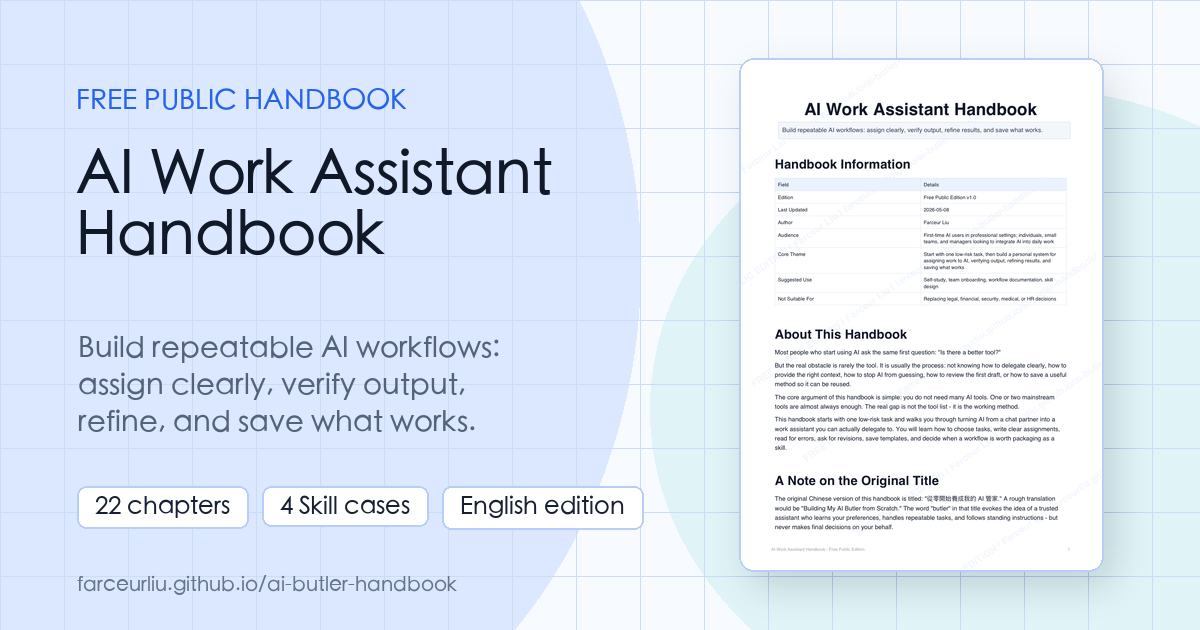
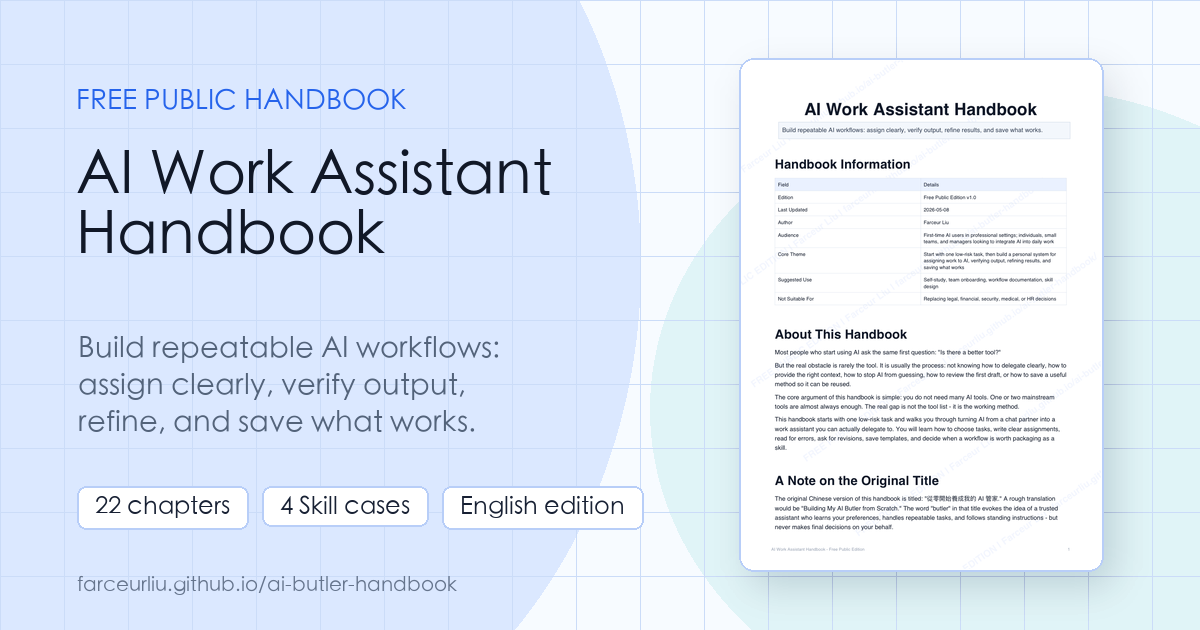
調整中文分享縮圖字體

diff --git a/index.html b/index.html
@@ -12,17 +12,17 @@
   <meta property="og:url" content="https://farceurliu.github.io/ai-butler-handbook/">
   <meta property="og:site_name" content="從零開始養成我的 AI 管家">
   <meta property="og:locale" content="zh_TW">
-  <meta property="og:image" content="https://farceurliu.github.io/ai-butler-handbook/assets/social-preview-zh.png?v=20260508-bilingual-previews">
-  <meta property="og:image:secure_url" content="https://farceurliu.github.io/ai-butler-handbook/assets/social-preview-zh.png?v=20260508-bilingual-previews">
+  <meta property="og:image" content="https://farceurliu.github.io/ai-butler-handbook/assets/social-preview-zh.png?v=20260508-preview-font">
+  <meta property="og:image:secure_url" content="https://farceurliu.github.io/ai-butler-handbook/assets/social-preview-zh.png?v=20260508-preview-font">
   <meta property="og:image:width" content="1200">
   <meta property="og:image:height" content="630">
   <meta property="og:image:alt" content="從零開始養成我的 AI 管家免費公開手冊預覽圖">
   <meta name="twitter:card" content="summary_large_image">
   <meta name="twitter:title" content="從零開始養成我的 AI 管家｜免費公開版">
   <meta name="twitter:description" content="AI 管家公開教學書，教你把 AI 從聊天工具養成可交辦、可驗收、可累積的工作助理。">
-  <meta name="twitter:image" content="https://farceurliu.github.io/ai-butler-handbook/assets/social-preview-zh.png?v=20260508-bilingual-previews">
+  <meta name="twitter:image" content="https://farceurliu.github.io/ai-butler-handbook/assets/social-preview-zh.png?v=20260508-preview-font">
   <link rel="icon" href="assets/favicon.svg" type="image/svg+xml">
-  <link rel="stylesheet" href="assets/styles.css?v=20260508-bilingual-previews">
+  <link rel="stylesheet" href="assets/styles.css?v=20260508-preview-font">
   <script src="https://platform.linkedin.com/badges/js/profile.js" async defer type="text/javascript"></script>
   <script data-goatcounter="https://farceur-ai-butler.goatcounter.com/count" async src="https://gc.zgo.at/count.js"></script>
 </head>

diff --git a/english.html b/english.html
@@ -12,17 +12,17 @@
   <meta property="og:url" content="https://farceurliu.github.io/ai-butler-handbook/english.html">
   <meta property="og:site_name" content="AI Work Assistant Handbook">
   <meta property="og:locale" content="en_US">
-  <meta property="og:image" content="https://farceurliu.github.io/ai-butler-handbook/assets/social-preview-en.png?v=20260508-bilingual-previews">
-  <meta property="og:image:secure_url" content="https://farceurliu.github.io/ai-butler-handbook/assets/social-preview-en.png?v=20260508-bilingual-previews">
+  <meta property="og:image" content="https://farceurliu.github.io/ai-butler-handbook/assets/social-preview-en.png?v=20260508-preview-font">
+  <meta property="og:image:secure_url" content="https://farceurliu.github.io/ai-butler-handbook/assets/social-preview-en.png?v=20260508-preview-font">
   <meta property="og:image:width" content="1200">
   <meta property="og:image:height" content="630">
   <meta property="og:image:alt" content="Free public AI work assistant handbook preview image">
   <meta name="twitter:card" content="summary_large_image">
   <meta name="twitter:title" content="AI Work Assistant Handbook | English Overview">
   <meta name="twitter:description" content="English overview of a Traditional Chinese handbook about turning AI tools into assignable, verifiable, repeatable work processes.">
-  <meta name="twitter:image" content="https://farceurliu.github.io/ai-butler-handbook/assets/social-preview-en.png?v=20260508-bilingual-previews">
+  <meta name="twitter:image" content="https://farceurliu.github.io/ai-butler-handbook/assets/social-preview-en.png?v=20260508-preview-font">
   <link rel="icon" href="assets/favicon.svg" type="image/svg+xml">
-  <link rel="stylesheet" href="assets/styles.css?v=20260508-bilingual-previews">
+  <link rel="stylesheet" href="assets/styles.css?v=20260508-preview-font">
   <script data-goatcounter="https://farceur-ai-butler.goatcounter.com/count" async src="https://gc.zgo.at/count.js"></script>
 </head>
 <body>

diff --git a/linkedin.html b/linkedin.html
@@ -12,17 +12,17 @@
   <meta property="og:url" content="https://farceurliu.github.io/ai-butler-handbook/linkedin.html">
   <meta property="og:site_name" content="AI Work Assistant Handbook">
   <meta property="og:locale" content="en_US">
-  <meta property="og:image" content="https://farceurliu.github.io/ai-butler-handbook/assets/social-preview-en.png?v=20260508-bilingual-previews">
-  <meta property="og:image:secure_url" content="https://farceurliu.github.io/ai-butler-handbook/assets/social-preview-en.png?v=20260508-bilingual-previews">
+  <meta property="og:image" content="https://farceurliu.github.io/ai-butler-handbook/assets/social-preview-en.png?v=20260508-preview-font">
+  <meta property="og:image:secure_url" content="https://farceurliu.github.io/ai-butler-handbook/assets/social-preview-en.png?v=20260508-preview-font">
   <meta property="og:image:width" content="1200">
   <meta property="og:image:height" content="630">
   <meta property="og:image:alt" content="Free public AI work assistant handbook preview image">
   <meta name="twitter:card" content="summary_large_image">
   <meta name="twitter:title" content="AI Work Assistant Handbook | Farceur Liu">
   <meta name="twitter:description" content="A free public self-study handbook for building repeatable AI workflows and an AI work assistant.">
-  <meta name="twitter:image" content="https://farceurliu.github.io/ai-butler-handbook/assets/social-preview-en.png?v=20260508-bilingual-previews">
+  <meta name="twitter:image" content="https://farceurliu.github.io/ai-butler-handbook/assets/social-preview-en.png?v=20260508-preview-font">
   <link rel="icon" href="assets/favicon.svg" type="image/svg+xml">
-  <link rel="stylesheet" href="assets/styles.css?v=20260508-bilingual-previews">
+  <link rel="stylesheet" href="assets/styles.css?v=20260508-preview-font">
   <script data-goatcounter="https://farceur-ai-butler.goatcounter.com/count" async src="https://gc.zgo.at/count.js"></script>
 </head>
 <body>

diff --git a/read.html b/read.html
@@ -12,17 +12,17 @@
   <meta property="og:url" content="https://farceurliu.github.io/ai-butler-handbook/read.html">
   <meta property="og:site_name" content="從零開始養成我的 AI 管家">
   <meta property="og:locale" content="zh_TW">
-  <meta property="og:image" content="https://farceurliu.github.io/ai-butler-handbook/assets/social-preview-zh.png?v=20260508-bilingual-previews">
-  <meta property="og:image:secure_url" content="https://farceurliu.github.io/ai-butler-handbook/assets/social-preview-zh.png?v=20260508-bilingual-previews">
+  <meta property="og:image" content="https://farceurliu.github.io/ai-butler-handbook/assets/social-preview-zh.png?v=20260508-preview-font">
+  <meta property="og:image:secure_url" content="https://farceurliu.github.io/ai-butler-handbook/assets/social-preview-zh.png?v=20260508-preview-font">
   <meta property="og:image:width" content="1200">
   <meta property="og:image:height" content="630">
   <meta property="og:image:alt" content="從零開始養成我的 AI 管家免費公開手冊預覽圖">
   <meta name="twitter:card" content="summary_large_image">
   <meta name="twitter:title" content="線上閱讀｜從零開始養成我的 AI 管家">
   <meta name="twitter:description" content="從零開始養成我的 AI 管家免費公開版線上閱讀。">
-  <meta name="twitter:image" content="https://farceurliu.github.io/ai-butler-handbook/assets/social-preview-zh.png?v=20260508-bilingual-previews">
+  <meta name="twitter:image" content="https://farceurliu.github.io/ai-butler-handbook/assets/social-preview-zh.png?v=20260508-preview-font">
   <link rel="icon" href="assets/favicon.svg" type="image/svg+xml">
-  <link rel="stylesheet" href="assets/styles.css?v=20260508-bilingual-previews">
+  <link rel="stylesheet" href="assets/styles.css?v=20260508-preview-font">
   <script data-goatcounter="https://farceur-ai-butler.goatcounter.com/count" async src="https://gc.zgo.at/count.js"></script>
 </head>
 <body>

diff --git a/read-en.html b/read-en.html
@@ -12,17 +12,17 @@
   <meta property="og:url" content="https://farceurliu.github.io/ai-butler-handbook/read-en.html">
   <meta property="og:site_name" content="AI Work Assistant Handbook">
   <meta property="og:locale" content="en_US">
-  <meta property="og:image" content="https://farceurliu.github.io/ai-butler-handbook/assets/social-preview-en.png?v=20260508-bilingual-previews">
-  <meta property="og:image:secure_url" content="https://farceurliu.github.io/ai-butler-handbook/assets/social-preview-en.png?v=20260508-bilingual-previews">
+  <meta property="og:image" content="https://farceurliu.github.io/ai-butler-handbook/assets/social-preview-en.png?v=20260508-preview-font">
+  <meta property="og:image:secure_url" content="https://farceurliu.github.io/ai-butler-handbook/assets/social-preview-en.png?v=20260508-preview-font">
   <meta property="og:image:width" content="1200">
   <meta property="og:image:height" content="630">
   <meta property="og:image:alt" content="Free public AI work assistant handbook preview image">
   <meta name="twitter:card" content="summary_large_image">
   <meta name="twitter:title" content="Read Online | AI Work Assistant Handbook">
   <meta name="twitter:description" content="Read the English public edition of the AI Work Assistant Handbook online.">
-  <meta name="twitter:image" content="https://farceurliu.github.io/ai-butler-handbook/assets/social-preview-en.png?v=20260508-bilingual-previews">
+  <meta name="twitter:image" content="https://farceurliu.github.io/ai-butler-handbook/assets/social-preview-en.png?v=20260508-preview-font">
   <link rel="icon" href="assets/favicon.svg" type="image/svg+xml">
-  <link rel="stylesheet" href="assets/styles.css?v=20260508-bilingual-previews">
+  <link rel="stylesheet" href="assets/styles.css?v=20260508-preview-font">
   <script data-goatcounter="https://farceur-ai-butler.goatcounter.com/count" async src="https://gc.zgo.at/count.js"></script>
 </head>
 <body>

diff --git a/scripts/build_social_preview.py b/scripts/build_social_preview.py
@@ -17,6 +17,7 @@ WIDTH = 1200
 HEIGHT = 630
 
 FONT_CANDIDATES = [
+    "/System/Library/Fonts/STHeiti Light.ttc",
     "/System/Library/Fonts/STHeiti Medium.ttc",
     "/System/Library/Fonts/Hiragino Sans GB.ttc",
     "/Library/Fonts/Arial Unicode.ttf",
@@ -129,7 +130,7 @@ def generate_social_preview(output: Path = SOCIAL_PREVIEW, locale: str = "zh") -
         subtitle = "建立可重複使用的 AI 工作流：\n清楚交辦、驗收輸出、復盤優化，\n把有效做法留下來。"
         badges = ("22 章養成路線", "4 個 Skill 案例", "繁體中文")
         cover_path = COVER_PREVIEW
-        title_size = 66
+        title_size = 60
 
     draw.text((76, 86), eyebrow, font=font(28), fill="#2563eb")
     draw_multiline(draw, (76, 145), title, font(title_size), "#111827", line_gap=12)

diff --git a/scripts/build_site.py b/scripts/build_site.py
@@ -16,7 +16,7 @@ COVER_PREVIEW = ROOT / "assets" / "cover-preview.png"
 COVER_PREVIEW_EN = ROOT / "assets" / "cover-preview-en.png"
 SOCIAL_PREVIEW = ROOT / "assets" / "social-preview.png"
 SITE_URL = "https://farceurliu.github.io/ai-butler-handbook/"
-ASSET_VERSION = "20260508-bilingual-previews"
+ASSET_VERSION = "20260508-preview-font"
 SOCIAL_PREVIEW_ZH = ROOT / "assets" / "social-preview-zh.png"
 SOCIAL_PREVIEW_EN = ROOT / "assets" / "social-preview-en.png"
 SOCIAL_PREVIEW_ZH_URL = f"{SITE_URL}assets/social-preview-zh.png?v={ASSET_VERSION}"
